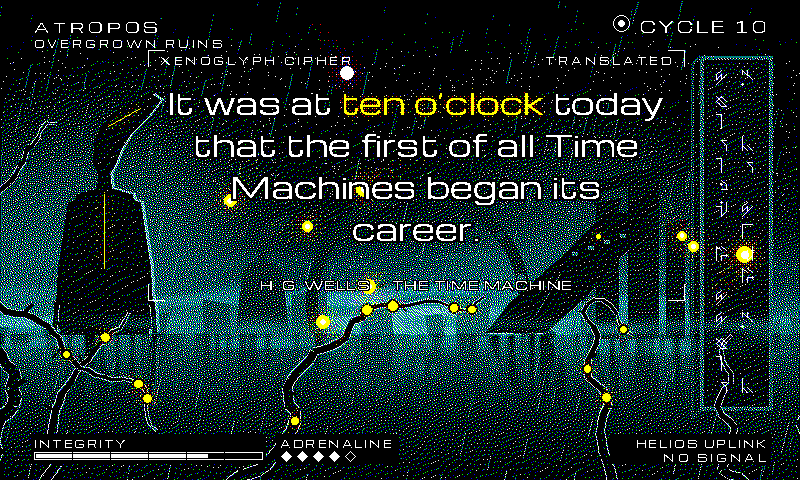
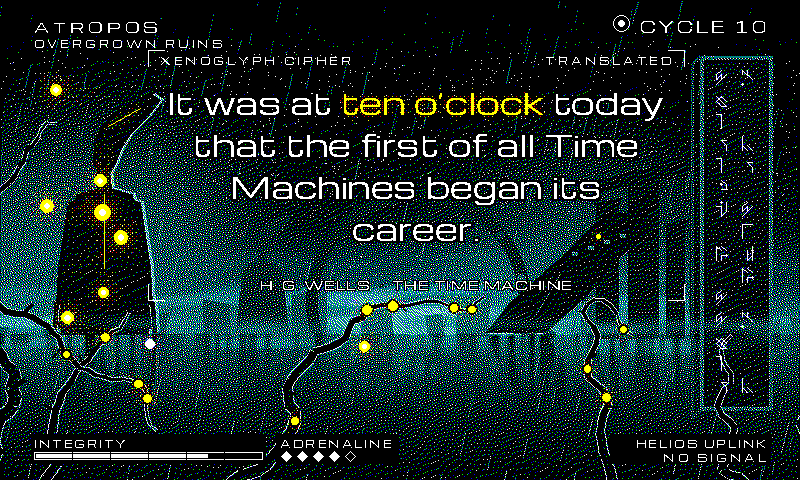
Keep the atropos volley clear of the quote and the cipher slab
An orb seeded beside a glyph read as a yellow dot stuck to the phrase:
the text's black halo knocks out only what sits under the letters. The
orbs are now rejection-sampled so neither the core nor any trail dot
falls within a bloom's reach of the translation frame or the cipher
slab, where one hid the glyphs. Fenced by a test over several seeds;
golden fixture and README preview regenerated.

Claude-Session: https://claude.ai/code/session_013K5JX6FqP4H8xo5G9W2R2T

diff --git a/idle_hours/render_quote.py b/idle_hours/render_quote.py
@@ -30159,18 +30159,34 @@ def _atropos_paint_orbs(image: Image.Image, quote_row: dict) -> None:
     per quote. Hot orbs are yellow in tangerine, violet ones white in R+B."""
     rng = random.Random(_row_digest(quote_row) ^ _ATROPOS_SEED)
     width, height = image.size
+    # The volley stays clear of the translation frame and the cipher slab: an
+    # orb beside a glyph read as a yellow dot stuck to the phrase, since the
+    # text's halo only knocks out what sits under the letters themselves, and
+    # one over the slab hid the glyphs.
+    reach = 26                                                   # how far a bloom spills past its mask
+    keepouts = (_atropos_quote_keepout(), _ATROPOS_SLAB)         # the text, and the glyphs it translates
+
+    def clear(px, py):
+        return not any(kx0 - reach < px < kx1 + reach and ky0 - reach < py < ky1 + reach
+                       for kx0, ky0, kx1, ky1 in keepouts)
+
     for _ in range(6 + rng.randrange(4)):
-        x, y = rng.uniform(40, width - 40), rng.uniform(52, _ATROPOS_HORIZON + 16)
-        a = rng.uniform(0, 2 * math.pi)
         r = rng.uniform(4.5, 8.0)
+        for _attempt in range(60):
+            x, y = rng.uniform(40, width - 40), rng.uniform(52, _ATROPOS_HORIZON + 16)
+            a = rng.uniform(0, 2 * math.pi)
+            dots = [(x - math.cos(a) * k * r * 1.6, y - math.sin(a) * k * r * 1.6) for k in range(1, 8)]
+            if clear(x, y) and all(clear(tx, ty) for tx, ty in dots):
+                break
+        else:                                                    # pragma: no cover - 60 draws never all collide
+            continue
         hot = rng.random() < 0.7
         core = Image.new("L", image.size, 0)
         trail = Image.new("L", image.size, 0)
         ImageDraw.Draw(core).ellipse((x - r, y - r, x + r, y + r), fill=255)
         td = ImageDraw.Draw(trail)
-        for k in range(1, 8):
+        for k, (tx, ty) in enumerate(dots, start=1):
             tr = r * (1 - k / 8) * 0.9
-            tx, ty = x - math.cos(a) * k * r * 1.6, y - math.sin(a) * k * r * 1.6
             td.ellipse((tx - tr, ty - tr, tx + tr, ty + tr), fill=round(255 * (1 - k / 9)))
         if hot:
             _atropos_glow_hot(image, trail, None, radius=5, gamma=1.8, cap=0.55, yellow_share=0.5)
@@ -30184,6 +30200,13 @@ def _atropos_paint_orbs(image: Image.Image, quote_row: dict) -> None:
                                 glow_minor=SPECTRA6["red"], glow_minor_share=0.5)
         core.close()
         trail.close()
+
+
+def _atropos_quote_keepout() -> tuple[int, int, int, int]:
+    """The translation frame, brackets and byline included, that no orb may
+    sit inside."""
+    x0, y0, x1, _ = _ATROPOS_QUOTE_RECT
+    return (x0 - 18, y0 - 22, x1 + 18, _ATROPOS_BYLINE_BASELINE + 12)
 
 
 def _atropos_glyph(letter: str) -> tuple:
@@ -30315,8 +30338,7 @@ def _atropos_paint_hud(image: Image.Image, draw: ImageDraw.ImageDraw, hour: int,
 
     # The translation frame: corner brackets round the quote, a label above.
     x0, y0, x1, y1 = _ATROPOS_QUOTE_RECT
-    frame = (x0 - 18, y0 - 22, x1 + 18, _ATROPOS_BYLINE_BASELINE + 12)
-    _atropos_brackets(draw, frame, 16, white)
+    _atropos_brackets(draw, _atropos_quote_keepout(), 16, white)
     draw_tracked(draw, (x0 - 6, y0 - 19), "XENOGLYPH CIPHER", _atropos_font(10), white, tracking=3)
     draw_tracked(draw, (x1 + 6, y0 - 19), "TRANSLATED", _atropos_font(10), white, tracking=3, anchor_right=True)
 

diff --git a/tests/test_render_quote_themes.py b/tests/test_render_quote_themes.py
@@ -5797,3 +5797,13 @@ class TestAtroposFrame:
         big = self._render()
         assert small.size == (320, 192)
         assert pixel_bytes(small) == pixel_bytes(big.resize((320, 192), Image.Resampling.NEAREST))
+
+    def test_volley_stays_clear_of_the_translation_frame(self):
+        """An orb beside a glyph read as a yellow dot stuck to the phrase."""
+        for source_id in ("141", "999", "7", "2701", "43"):
+            row = dict(self.ROW, source_id=source_id)
+            cold = rq._atropos_background().copy()
+            rq._atropos_paint_orbs(cold, make_row(**row))
+            for x0, y0, x1, y1 in (rq._atropos_quote_keepout(), rq._ATROPOS_SLAB):
+                inside = cold.crop((x0 - 4, y0 - 4, x1 + 4, y1 + 4))
+                assert rq.SPECTRA6["yellow"] not in distinct_inks(inside), source_id
